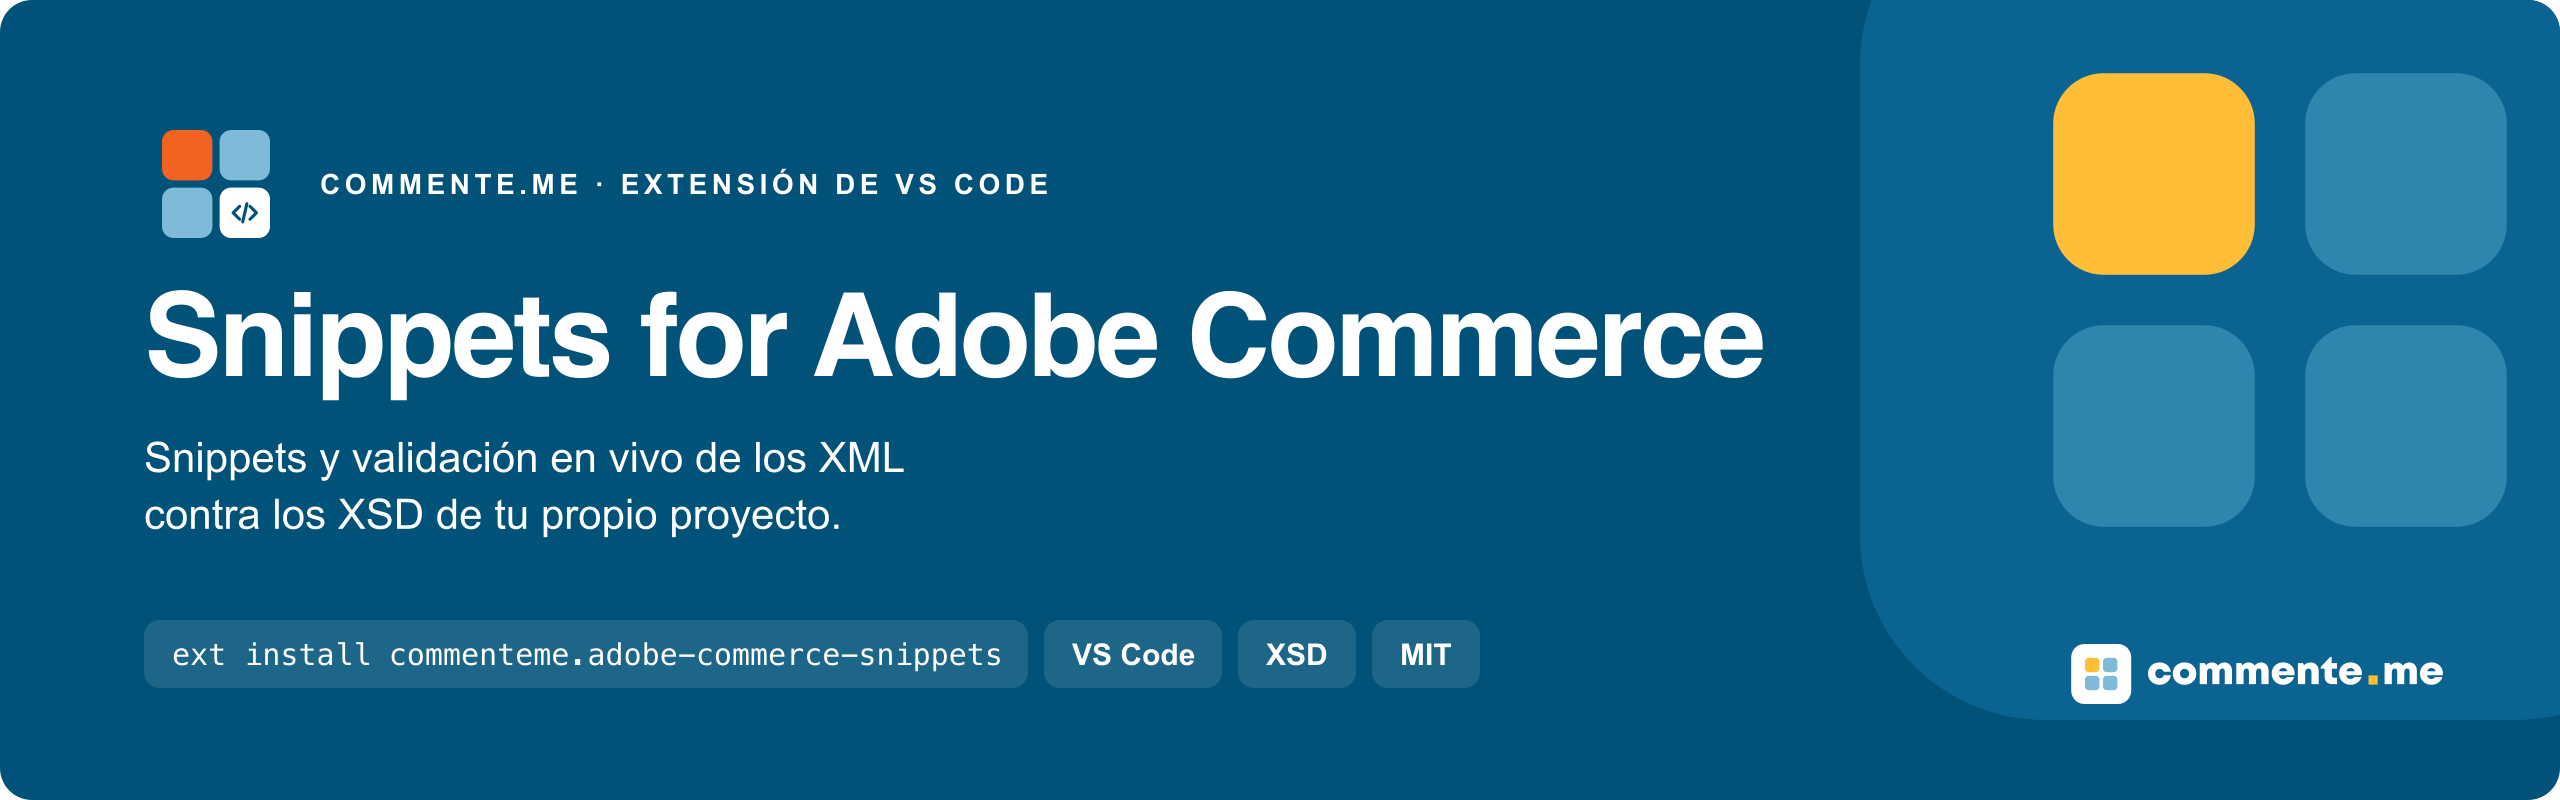
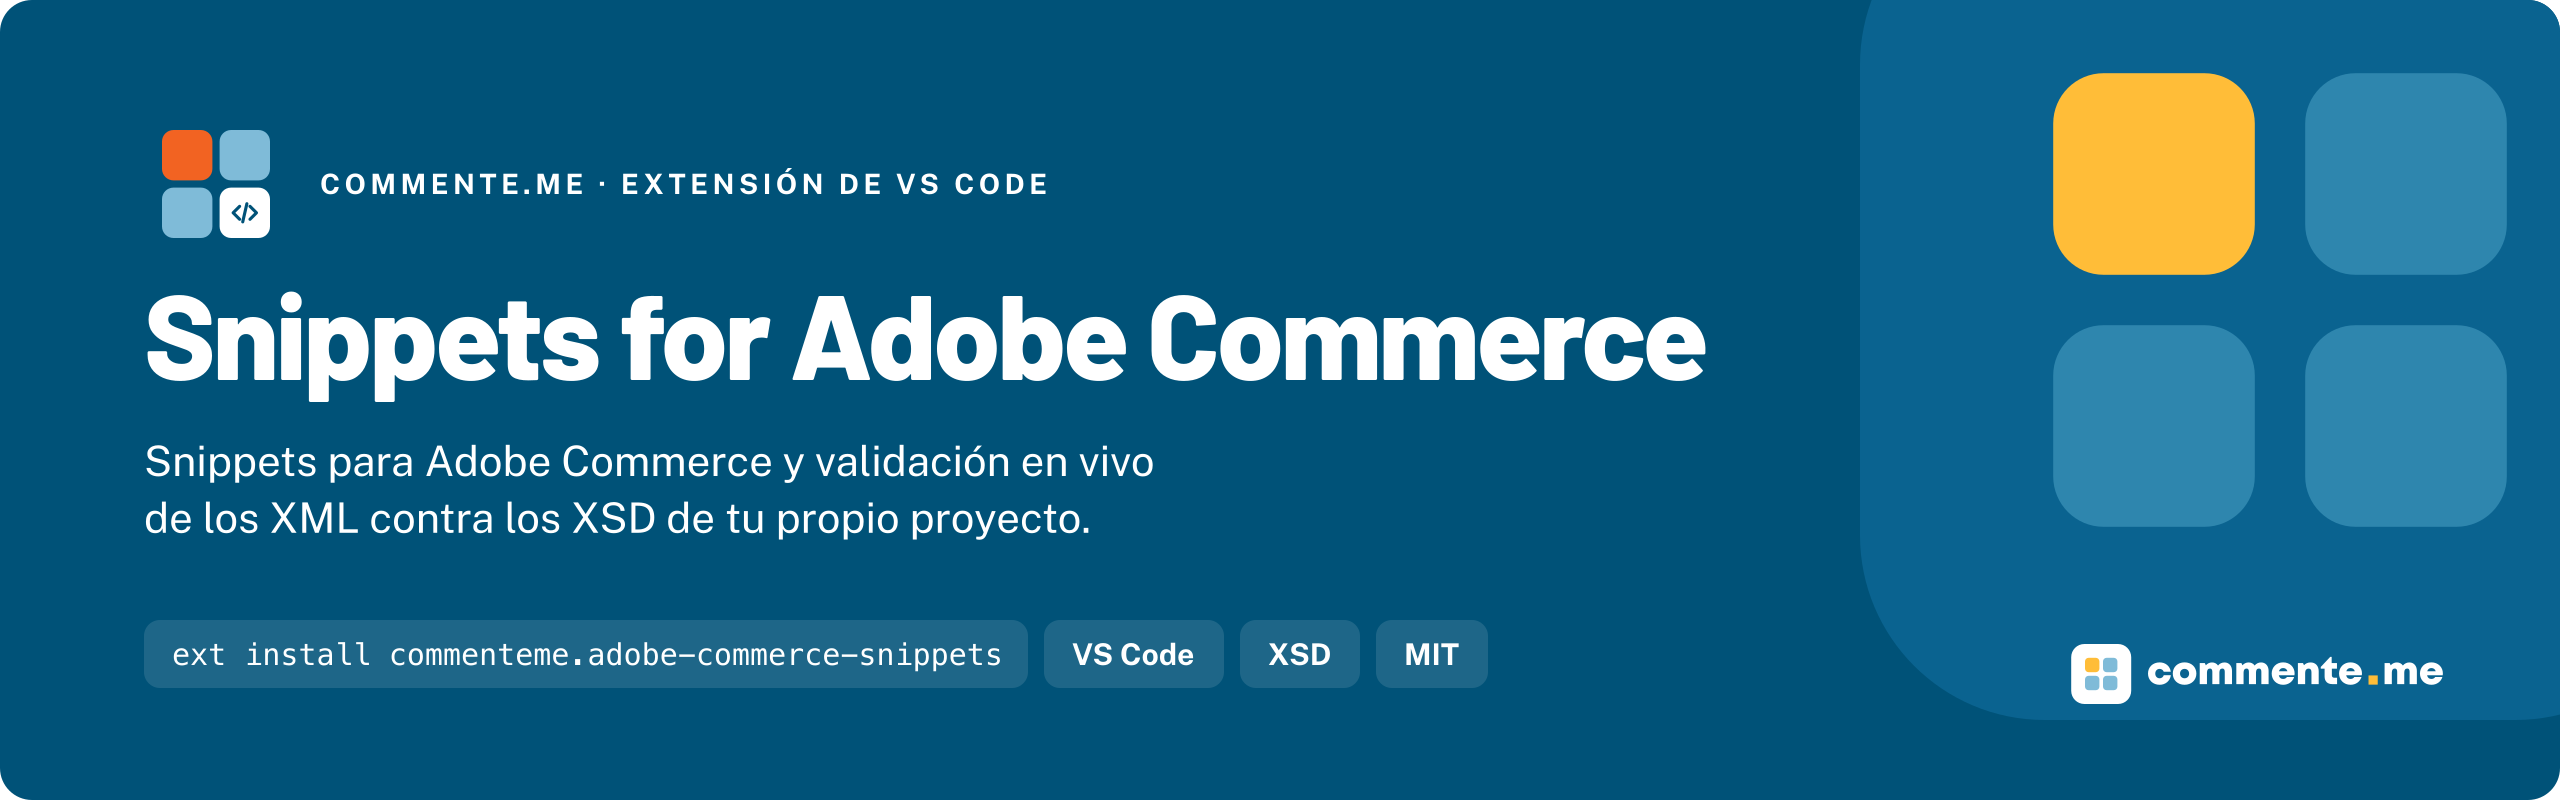
docs: README e header no padrão Atacama
Regenera o banner e o social preview com o banner.py atual (nome em Barlow 800) e com a mesma frase do README, alinha o alt do header e troca o rodapé para hablecon@commente.me.

diff --git a/README.md b/README.md
@@ -1,5 +1,5 @@
 <p align="center">
-  <img src="assets/banner.png" width="100%" alt="Snippets for Adobe Commerce · Snippets y validación en vivo de los XML contra los XSD de tu propio proyecto">
+  <img src="assets/banner.png" width="100%" alt="Snippets for Adobe Commerce · Snippets para Adobe Commerce y validación en vivo de los XML contra los XSD de tu propio proyecto.">
 </p>
 
 # Snippets for Adobe Commerce
@@ -218,4 +218,4 @@ MIT, mira [LICENSE](LICENSE). Los snippets se escribieron a partir de la documen
 
 ---
 
-Hecho por [commente.me](https://commente.me) · hola@commente.me
+Hecho por [commente.me](https://www.commente.me) · hablecon@commente.me
